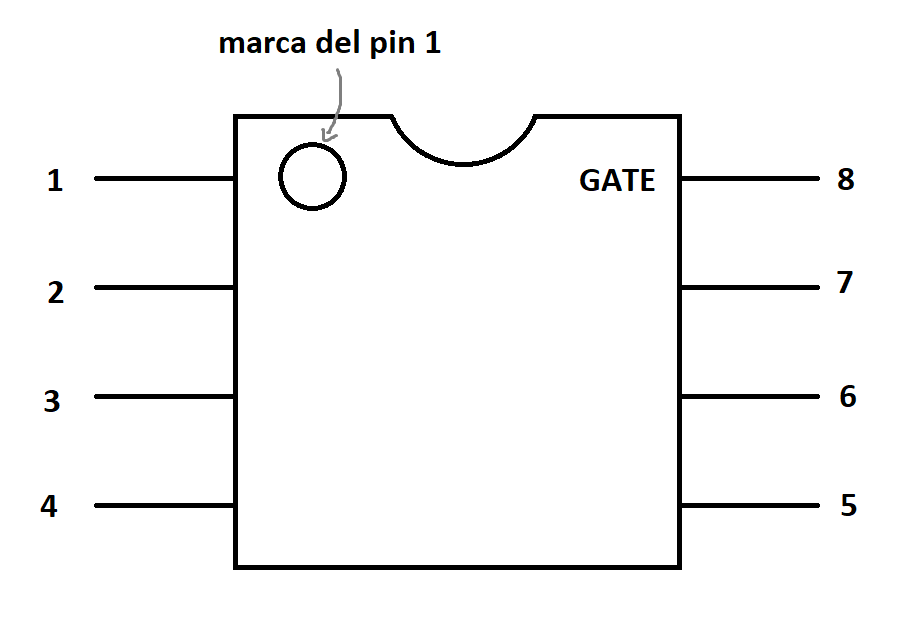
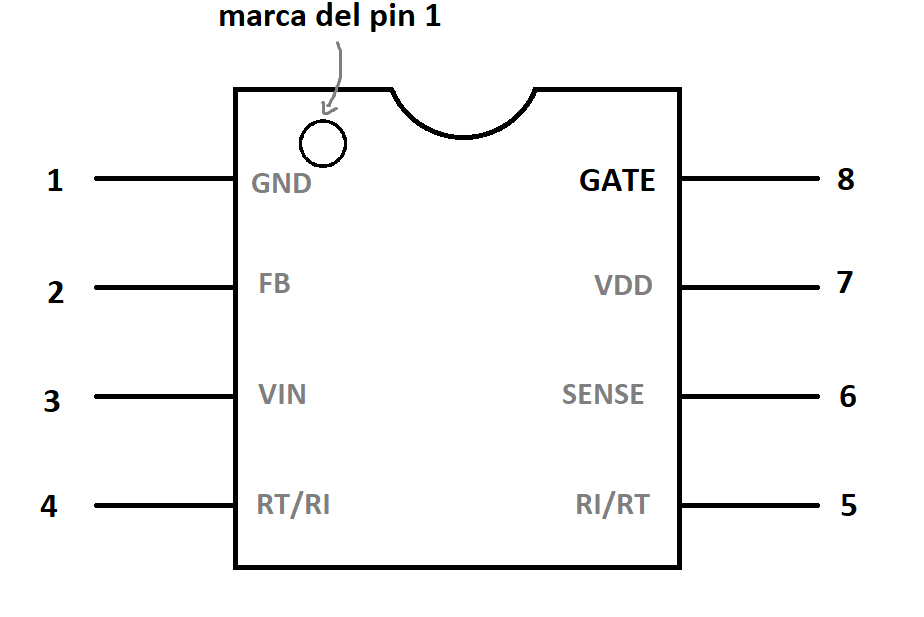
finalize LA

diff --git a/laboratorio/LA.md b/laboratorio/LA.md
@@ -10,39 +10,44 @@
 
 Para este laboratorio se debe entregar un único informe (sólo habrá un grupo con 5 estudiantes). Dividan las tareas, trabajen en conjunto, revisen todas las preguntas y respuestas y entreguen el resultado al final de la actividad.
 
-El objetivo del Laboratorio 10 es 
+El objetivo del Laboratorio 10 es estudiar una placa de fuente de poder real y entender como se utilizan en la practica diversos de los componentes, circuitos y conceptos estudiados en clase. También es un objetivo que los estudiantes practiquen hacer ingenieria inversa de circuitos electronicos, y buscar información para entender una placa de circuito impreso y sus componentes.
+
+La Figura 1 muestra la fuente de poder de una de las impresoras 3D del laboratorio. Pidan una demonstración al ayudante, y observen como la placa convierte el voltaje de entrada de la toma de corriente (220 V, 50 Hz) a un voltaje continuo de aproximadamente 30 V. Luego, contesten las siguientes preguntas.
 
 ![photo](../img/LA_photo.jpeg)
 
 Figura 1: Fuente de Poder de la impresora 3D
 
-1. Encuentre los componentes F1 y RT1 e investigue que tipo de dispositivos son. ¿Cuál es su función en este circuito? (1pt)
+1. ¿Qué significa AC/N, AC/L y FG ? (0.5pt)
 
-1. CX1, LF1, C12 y C13 implementan filtros paso baja que ayudan a disminuir la emisión de radiación electromagnética causada por el encendido y apagado de alta frecuencia del convertidor.  (1pt)
+1. ¿Por qué el conector de la placa tiene 3 espacios para conectar V+ y 3 espacios para conectar V- ? (0.5pt)
 
-1. Encuentre el componente BD1, y busque su numero de parte online. ¿Qué tipo de componente es, y cual es su función ? (1pt)
+1. Encuentren los componentes F1 y RT1 e investiguen que tipo de dispositivos son. ¿Cuál es su función en este circuito? (0.5pt)
 
-1. Uno de los componentes más importantes de la placa es el circuito integrado [JT3269A](https://www-sz--just-cn.translate.goog/product/32.html?_x_tr_sch=http&_x_tr_sl=zh-CN&_x_tr_tl=en&_x_tr_hl=en&_x_tr_pto=sc) (único circuito integrado con 8 pines en la placa). En la figura 2 se muestra parte de la hoja de datos del JT3269A. (1pt)
+1. CX1, LF1, C12 y C13 implementan filtros que ayudan a disminuir la emisión de radiación electromagnética causada por el encendido y apagado de alta frecuencia del convertidor. Determinen como están conectados entre sí y con las señales de AC/N, AC/L y FG. Basándose en la posición de los capacitores, ¿qué tipo de filtro está implementado (paso-baja, paso-alta, paso-banda) ? (0.5pt)
+
+1. Encuentren el componente BD1, y busquen su numero de parte online. ¿Qué tipo de componente es, y cual es su función ? (0.5pt)
+
+1. Uno de los componentes más importantes de esta fuente de poder es el circuito integrado [JT3269A](https://www-sz--just-cn.translate.goog/product/32.html?_x_tr_sch=http&_x_tr_sl=zh-CN&_x_tr_tl=en&_x_tr_hl=en&_x_tr_pto=sc) (único circuito integrado con 8 pines en la placa). En la figura 2 se muestra parte de la hoja de datos del JT3269A.
 
     ![photo](../img/LA_JT3269A_annotated.png)
 
     Figura 2: Típica aplicación del JT3269, extraído de su hoja de datos.
 
-    1. Asumiendo que la parte resaltada en rojo es el sistema de control, que Q1 es un transistor utilizado como interruptor e ignorando las partes en azul, determine que tipo de regulador de voltaje está implementado (LDO, elevador, reductor, reductor-elevador o retroceso). (1pt)
+    1. Asumiendo que la parte resaltada en rojo es el sistema de control que genera la señal de encendido y apagado, que Q1 es un transistor utilizado como interruptor e ignorando las partes en azul, determinen qué tipo de regulador de voltaje está implementado (LDO, elevador, reductor, reductor-elevador o retroceso). (0.5pt)
 
-    1. ¿Qué/Cuáles componente(s) en la placa implementa(n) el componente marcado como "D?" en la figura 2 ? (1pt)
+    1. ¿Qué/Cuáles componente(s) en la placa implementa(n) el diodo marcado como "D?" en la figura 2 ? (0.5pt)
 
-    1. La salida GATE del JT3269 (pin 8) no tiene suficiente capacidad de corriente para encender el interruptor Q1. Identifiquen los 2 componentes que amplifican la corriente de salida de GATE, incluyendo su denominación en la placa, número de parte y qué tipo de componentes son. (1pt)
+    1. R1 y R2 implementan la resistencia marcada como "R?" en la figura 2, la que sirve para convertir la corriente que pasa por Q1 en un voltaje que se mide en el terminal SENSE del JT3269. ¿Cuánto vale "R?" ? (0.5pt)
+
+    1. La salida GATE del JT3269 (pin 8) no tiene suficiente capacidad de corriente para encender el interruptor Q1, por lo que la placa tiene partes extras que no aparecen en la figura 2. Identifiquen los 2 componentes que amplifican la corriente de salida de GATE, incluyendo su denominación en la placa, número de parte y qué tipo de componentes son. (0.5pt)
     
         ![pin8](../img/LA_SOIC8.png)
 
         Figura 3: Ubicación de la salida GATE (pin 8) del JT3269. Vista superior.
 
-1. Determinen cuantos capacitores están conectados entre V+ y V- y cuál es la capacitancia total entre estos dos terminales. (1pt)
+1. Tal vez el componente más grande de la placa sea el transformador, el que se puede ubicar por su forma cuadrada, cintas rojas que lo enrollan y bobinas protegidas por una cinta amarilla en su interior. Dicho transformador tiene 3 bobinas, todas conectadas al mismo nucleo ferromagnetico, y 12 terminales que lo conectan a la placa de circuito impreso. Basandose en la figura 2 y en las conexiones que pueden observar en la placa, determinen cómo están conectadas las 3 bobinas a los terminales del transformador. (0.5pt)
 
-1.  (1pt)
+1. Determinen cuantos capacitores están conectados entre V+ y V- y cuál es la capacitancia total entre estos dos terminales. (0.5pt)
 
-
-
-![photo](../img/LA_JT3269A.png)
-
+1. La placa contiene un LED verde para indicar cuando está encendida. Estimen cuanta corriente consume dicho LED. (0.5pt)
